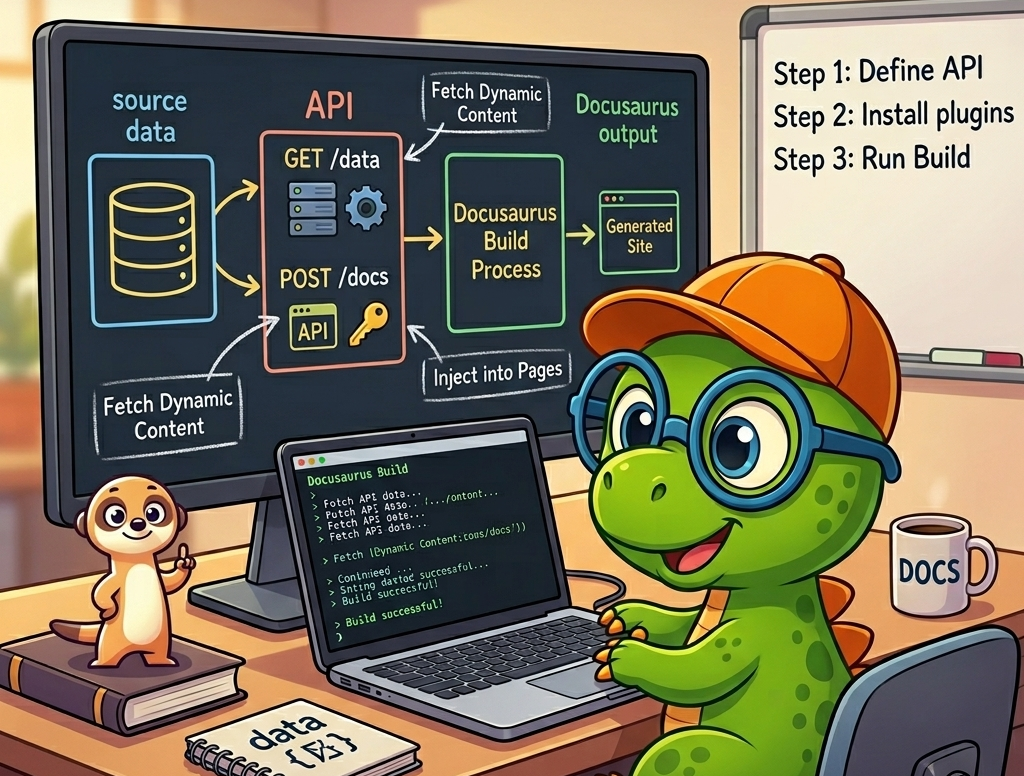
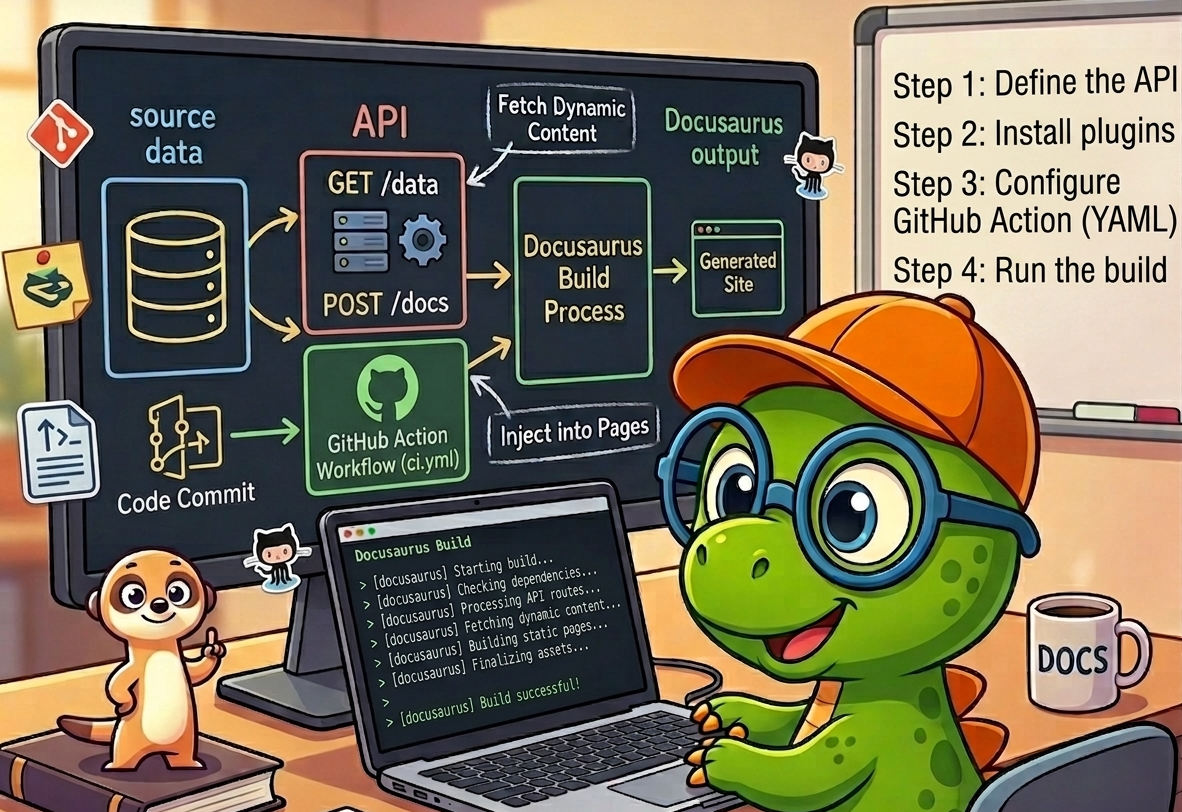
up new!

diff --git a/src/components/GoatCountViews/index.js b/src/components/GoatCountViews/index.js
@@ -70,7 +70,7 @@ export default function GoatCounterViews({path: explicitPath}) {
             const value = Number(digits);
             if (done) return;
             // Rule: < 100 => "New!", otherwise formatted value
-            setText(value < 100 ? 'New!' : format(value));
+            setText(value < 20 ? 'New!' : format(value));
             done = true;
             return;
           }